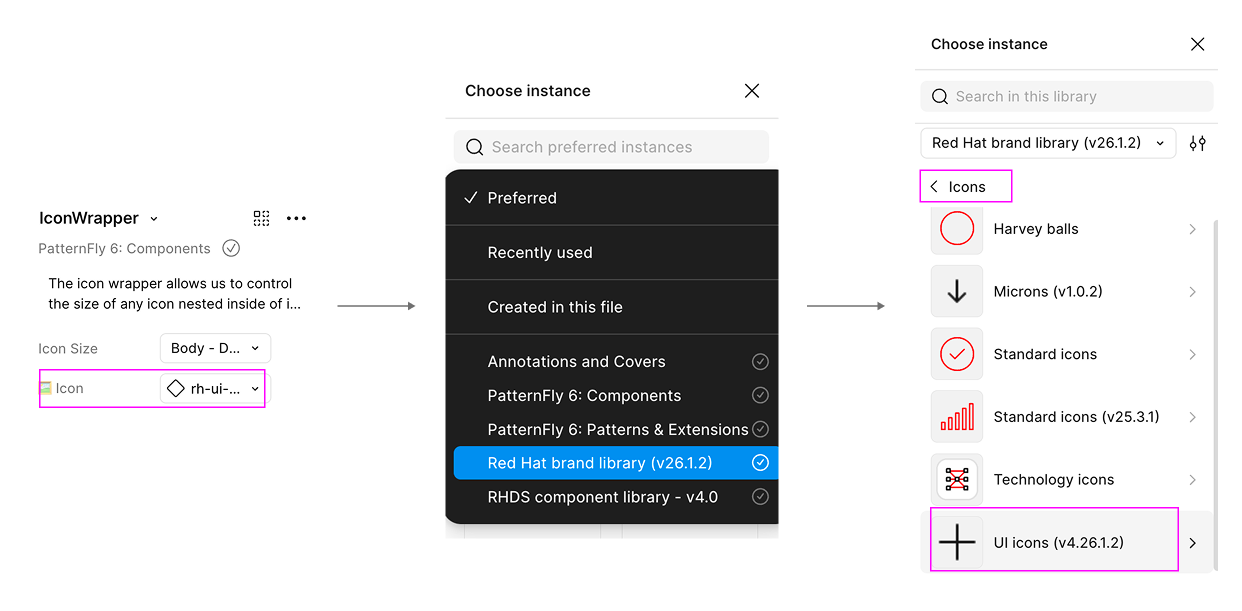
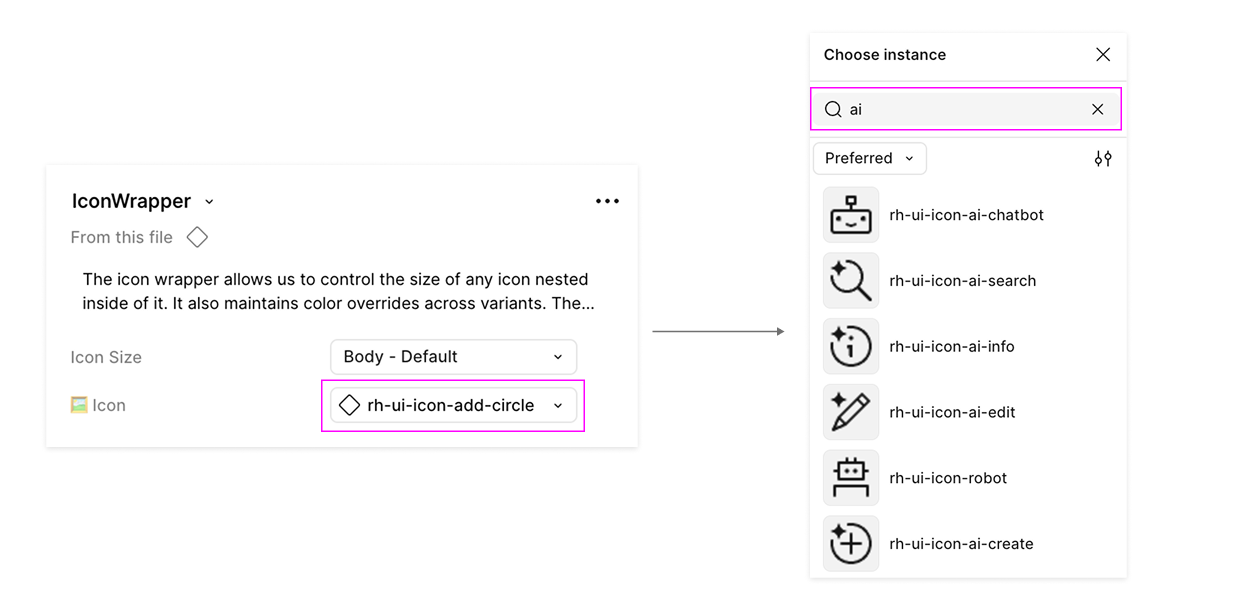
chore(ai design language): image change
Replaced an image that showed users how to use rh icons. Also updated text to match description.

diff --git a/packages/documentation-site/patternfly-docs/content/AI/design-language.md b/packages/documentation-site/patternfly-docs/content/AI/design-language.md
@@ -69,7 +69,7 @@ The following AI-enabled icons are available for use:
 
 Like the rest of PatternFly's icons, these AI icons are available within the [@patternfly/react-icons package](https://www.npmjs.com/package/@patternfly/react-icons/v/6.4.0?activeTab=versions). 
 
-In Figma, these icons are available within the Red Hat brand library, rather than those in the PatternFly components library. You can swap to the Red Hat brand library via the icon instance menu:
+In Figma, these icons are available in the PatternFly components library via the Red Hat brand library. Using the icon wrapper component you can swap the icons in the instance menu:
 
 <div class="ws-docs-content-img">
 ![Menu in Figma showing how to switch between PatternFly and Red Hat icon libraries](./img/rh-icons-figma.png)